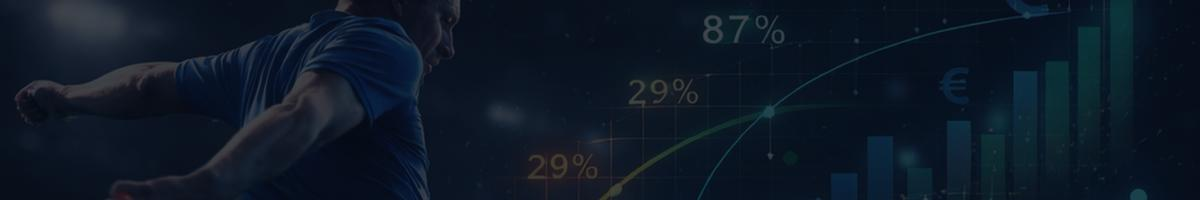
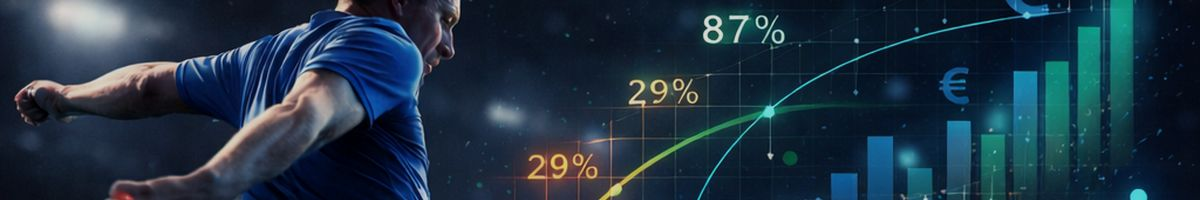
Add files via upload

diff --git a/index.html b/index.html
@@ -973,7 +973,7 @@ return showWelcome?function(){
 var lg0=wLg;var sd0=D.seasons[lg0][CUR_SN]||{};
 var tl0=Object.entries(sd0).filter(function(e){return e[1].w>0;}).map(function(e){return{n:e[0],pts:e[1].a[e[1].a.length-1]||0};}).sort(function(a,b){return b.pts-a.pts;});
 var curT=wTeam||tl0[0].n;
-return h("div",{className:"min-h-screen flex items-center justify-center",style:{backgroundImage:"linear-gradient(135deg,rgba(26,58,107,0.7) 0%,rgba(15,40,71,0.75) 100%),url(header-bg.jpeg)",backgroundSize:"cover",backgroundPosition:"center"}},
+return h("div",{className:"min-h-screen flex items-center justify-center",style:{backgroundImage:"linear-gradient(135deg,rgba(26,58,107,0.15) 0%,rgba(15,40,71,0.2) 100%),url(header-bg.jpeg)",backgroundSize:"cover",backgroundPosition:"center"}},
 h("div",{className:"text-center p-8",style:{maxWidth:420}},
 h("h1",{className:"text-3xl font-bold text-white mb-2",style:{fontFamily:"Georgia,serif"}},_t("app_title")),
 h("p",{className:"text-blue-200 text-sm mb-8"},_t("app_subtitle")),
@@ -990,7 +990,7 @@ h("select",{value:curT,onChange:function(ev){setWTeam(ev.target.value);setHash("
 tl0.map(function(t){return h("option",{key:t.n,value:t.n,style:{color:"#333"}},t.n);}))),
 h("button",{onClick:function(){setShowWelcome(false);setHash("tab","home");},className:"mt-6 px-8 py-3 rounded-lg text-base font-bold bg-white shadow-lg hover:shadow-xl transition-all",style:{color:N}},_t("start"))));}():
 h("div",{className:"min-h-screen bg-white"},
-h("div",{className:"py-4 px-5",style:{backgroundImage:"linear-gradient(135deg,rgba(26,58,107,0.7) 0%,rgba(15,40,71,0.75) 100%),url(header-bg.jpeg)",backgroundSize:"cover",backgroundPosition:"center"}},h("div",{className:"flex justify-between items-center",style:{maxWidth:950,margin:"0 auto"}},h("div",null,h("h1",{className:"text-xl font-bold text-white",style:{fontFamily:"Georgia,serif"}},_t("app_title")),h("p",{className:"text-blue-200 text-xs",style:{letterSpacing:"0.5px"}},_t("app_subtitle"))),h("select",{value:_lang,onChange:function(ev){setLang(ev.target.value);},className:"text-sm bg-transparent text-white border border-white/30 rounded px-2 py-1",style:{appearance:"auto"}},h("option",{value:"en",style:{color:"#333"}},"🇬🇧 EN"),h("option",{value:"es",style:{color:"#333"}},"🇪🇸 ES")))),
+h("div",{className:"py-4 px-5",style:{backgroundImage:"linear-gradient(135deg,rgba(26,58,107,0.15) 0%,rgba(15,40,71,0.2) 100%),url(header-bg.jpeg)",backgroundSize:"cover",backgroundPosition:"center"}},h("div",{className:"flex justify-between items-center",style:{maxWidth:950,margin:"0 auto"}},h("div",null,h("h1",{className:"text-xl font-bold text-white",style:{fontFamily:"Georgia,serif"}},_t("app_title")),h("p",{className:"text-blue-200 text-xs",style:{letterSpacing:"0.5px"}},_t("app_subtitle"))),h("select",{value:_lang,onChange:function(ev){setLang(ev.target.value);},className:"text-sm bg-transparent text-white border border-white/30 rounded px-2 py-1",style:{appearance:"auto"}},h("option",{value:"en",style:{color:"#333"}},"🇬🇧 EN"),h("option",{value:"es",style:{color:"#333"}},"🇪🇸 ES")))),
 h("div",{className:"border-b bg-gray-50 sticky top-0 z-10"},
 h("div",{className:"hidden sm:flex overflow-x-auto"},tabs.map(function(t){return h("button",{key:t.id,onClick:function(){sTab(t.id);},className:"px-3 py-2 text-xs sm:text-sm font-medium whitespace-nowrap border-b-2 "+(activeTab===t.id?"border-current":"border-transparent text-gray-500"),style:activeTab===t.id?{color:N}:{}},t.id==="home"?"\uD83C\uDFE0":null,t.id==="home"?" ":null,t.l);})),
 h("div",{className:"sm:hidden flex items-center justify-between px-3 py-2"},

diff --git a/test.html b/test.html
@@ -973,7 +973,7 @@ return showWelcome?function(){
 var lg0=wLg;var sd0=D.seasons[lg0][CUR_SN]||{};
 var tl0=Object.entries(sd0).filter(function(e){return e[1].w>0;}).map(function(e){return{n:e[0],pts:e[1].a[e[1].a.length-1]||0};}).sort(function(a,b){return b.pts-a.pts;});
 var curT=wTeam||tl0[0].n;
-return h("div",{className:"min-h-screen flex items-center justify-center",style:{backgroundImage:"linear-gradient(135deg,rgba(26,58,107,0.4) 0%,rgba(15,40,71,0.45) 100%),url(header-bg.jpeg)",backgroundSize:"cover",backgroundPosition:"center"}},
+return h("div",{className:"min-h-screen flex items-center justify-center",style:{backgroundImage:"linear-gradient(135deg,rgba(26,58,107,0.15) 0%,rgba(15,40,71,0.2) 100%),url(header-bg.jpeg)",backgroundSize:"cover",backgroundPosition:"center"}},
 h("div",{className:"text-center p-8",style:{maxWidth:420}},
 h("h1",{className:"text-3xl font-bold text-white mb-2",style:{fontFamily:"Georgia,serif"}},_t("app_title")),
 h("p",{className:"text-blue-200 text-sm mb-8"},_t("app_subtitle")),
@@ -990,7 +990,7 @@ h("select",{value:curT,onChange:function(ev){setWTeam(ev.target.value);setHash("
 tl0.map(function(t){return h("option",{key:t.n,value:t.n,style:{color:"#333"}},t.n);}))),
 h("button",{onClick:function(){setShowWelcome(false);setHash("tab","home");},className:"mt-6 px-8 py-3 rounded-lg text-base font-bold bg-white shadow-lg hover:shadow-xl transition-all",style:{color:N}},_t("start"))));}():
 h("div",{className:"min-h-screen bg-white"},
-h("div",{className:"py-4 px-5",style:{backgroundImage:"linear-gradient(135deg,rgba(26,58,107,0.4) 0%,rgba(15,40,71,0.45) 100%),url(header-bg.jpeg)",backgroundSize:"cover",backgroundPosition:"center"}},h("div",{className:"flex justify-between items-center",style:{maxWidth:950,margin:"0 auto"}},h("div",null,h("h1",{className:"text-xl font-bold text-white",style:{fontFamily:"Georgia,serif"}},_t("app_title")),h("p",{className:"text-blue-200 text-xs",style:{letterSpacing:"0.5px"}},_t("app_subtitle"))),h("select",{value:_lang,onChange:function(ev){setLang(ev.target.value);},className:"text-sm bg-transparent text-white border border-white/30 rounded px-2 py-1",style:{appearance:"auto"}},h("option",{value:"en",style:{color:"#333"}},"🇬🇧 EN"),h("option",{value:"es",style:{color:"#333"}},"🇪🇸 ES")))),
+h("div",{className:"py-4 px-5",style:{backgroundImage:"linear-gradient(135deg,rgba(26,58,107,0.15) 0%,rgba(15,40,71,0.2) 100%),url(header-bg.jpeg)",backgroundSize:"cover",backgroundPosition:"center"}},h("div",{className:"flex justify-between items-center",style:{maxWidth:950,margin:"0 auto"}},h("div",null,h("h1",{className:"text-xl font-bold text-white",style:{fontFamily:"Georgia,serif"}},_t("app_title")),h("p",{className:"text-blue-200 text-xs",style:{letterSpacing:"0.5px"}},_t("app_subtitle"))),h("select",{value:_lang,onChange:function(ev){setLang(ev.target.value);},className:"text-sm bg-transparent text-white border border-white/30 rounded px-2 py-1",style:{appearance:"auto"}},h("option",{value:"en",style:{color:"#333"}},"🇬🇧 EN"),h("option",{value:"es",style:{color:"#333"}},"🇪🇸 ES")))),
 h("div",{className:"border-b bg-gray-50 sticky top-0 z-10"},
 h("div",{className:"hidden sm:flex overflow-x-auto"},tabs.map(function(t){return h("button",{key:t.id,onClick:function(){sTab(t.id);},className:"px-3 py-2 text-xs sm:text-sm font-medium whitespace-nowrap border-b-2 "+(activeTab===t.id?"border-current":"border-transparent text-gray-500"),style:activeTab===t.id?{color:N}:{}},t.id==="home"?"\uD83C\uDFE0":null,t.id==="home"?" ":null,t.l);})),
 h("div",{className:"sm:hidden flex items-center justify-between px-3 py-2"},
